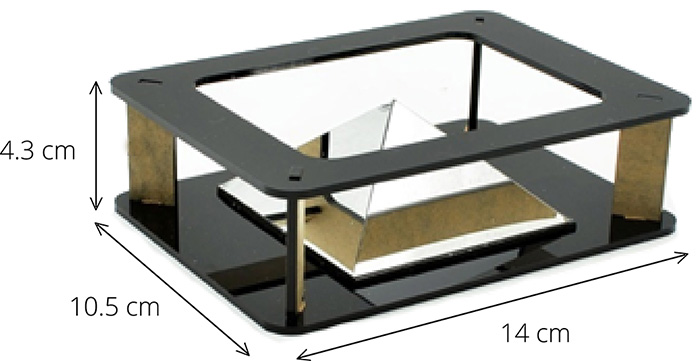
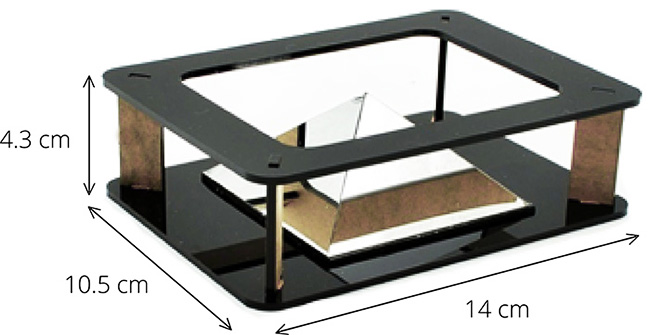
Schémas Pixel update

diff --git a/_content_main/en/products/pixel.html b/_content_main/en/products/pixel.html
@@ -54,20 +54,49 @@ slides:
     </div>
   </div>
 
-  <div class="row">
-    <div class="col-lg-6 col-md-12">
-      <div style="padding-top: 30px"><img alt="Schéma de Pixel" class="img-responsive" src="/static/img/products/goodies_schema.jpg" style="padding-top: 40px; padding-bottom: 10px;" />
-      </div>
+  <div class="row" style="padding-top: 80px">
+    <div class="col-lg-6 col-md-12" align="center">
+      <img alt="Schéma Pixel" class="img-responsive" src="/static/img/products/pixel_schema2.png">
     </div>
+    <div class="col-lg-6 col-md-12" align="center">
+      <img alt="Schéma de Pixel" class="img-responsive" src="/static/img/products/goodies_schema.jpg"/>
+    </div>
+  </div>
 
-    <div class="col-lg-6 col-md-12">
-      <div align="center" style="padding: 160px 0px 60px 0px">
-      {% svg src/pictos/produits/Picto__360.svg size=56 %}
-      {% svg src/pictos/produits/Picto__Smartphone.svg size=56 %}
-      {% svg src/pictos/produits/Picto__Stickage-logo.svg size=56 %}
-      {% svg src/pictos/produits/Picto__Packing-carton-box.svg size=56 %}
+  <h2 align="center" style="padding-top: 60px">MAIN CHARACTERISTICS</h2>
+
+
+  <div class="row" style="padding-top: 70px">
+    <div class="col-lg-1 col-md-12">
+      {% svg src/pictos/produits/Picto__360.svg size=70 %}
     </div>
+    <div class="col-lg-3 col-md-12">
+      <h3>360° HOLOGRAM</h3>
+      <p>L'hologramme peut être perçu à 360° dans le projecteur. Vous visualiserez ainsi l'objet sous tous ses angles.</p>
     </div>
+    <div class="col-lg-1 col-md-12">
+      {% svg src/pictos/produits/Picto__Smartphone.svg size=70 %}
+    </div>
+    <div class="col-lg-3 col-md-12">
+      <h3>SMARTPHONE SIZE</h3>
+      <p>La pyramide peut se placer sur des smartphone de différentes tailles : 5,5 et 6,5 pouces.</p>
+    </div>
+    <div class="col-lg-1 col-md-12">
+      {% svg src/pictos/produits/Picto__Stickage-logo.svg size=70 %}
+    </div>
+    <div class="col-lg-3 col-md-12">
+      <h3>YOUR LOGO</h3>
+      <p>Personnalisez vos pyramides Pixel en stickant ou gravant votre logo, signe distinctif, signature ou site internet.</p>
+    </div>
+  </div>
+<div class="row" style="padding-top: 50px">
+  <div class="col-lg-1 col-md-12">
+      {% svg src/pictos/produits/Picto__Packing-carton-box.svg size=70 %}
+  </div>
+  <div class="col-lg-3 col-md-12">
+    <h3>BLISTER PACKAGING</h3>
+    <p>La pyramide vous est livrée dans un emballage blister sur-mesure afin d'assurer sa protection.</p>
+  </div>
 </div>
 
 <div align="center">

diff --git a/_content_main/fr/products/pixel.html b/_content_main/fr/products/pixel.html
@@ -54,8 +54,14 @@ slides:
     </div>
   </div>
 
-  <div align="center" style="padding-top: 30px"><img alt="Schéma de Pixel" class="img-responsive" src="/static/img/products/goodies_schema.jpg" style="padding-top: 40px; padding-bottom: 10px;" />
-</div>
+  <div class="row" style="padding-top: 80px">
+    <div class="col-lg-6 col-md-12" align="center">
+      <img alt="Schéma Pixel" class="img-responsive" src="/static/img/products/pixel_schema2.png">
+    </div>
+    <div class="col-lg-6 col-md-12" align="center">
+      <img alt="Schéma de Pixel" class="img-responsive" src="/static/img/products/goodies_schema.jpg"/>
+    </div>
+  </div>
 
 <h2 align="center" style="padding-top: 50px">CARACTÉRISTIQUES</h2>
     <div class="row" style="padding-top: 70px">
@@ -86,8 +92,8 @@ slides:
         {% svg src/pictos/produits/Picto__Packing-carton-box.svg size=70 %}
     </div>
     <div class="col-lg-3 col-md-12">
-      <h3>EMBALLAGE CARTON</h3>
-      <p>La pyramide vous est livrée dans une box sur-mesure afin d'assurer sa protection.</p>
+      <h3>EMBALLAGE BLISTER</h3>
+      <p>La pyramide vous est livrée dans un emballage blister sur-mesure afin d'assurer sa protection.</p>
     </div>
 </div>
 
